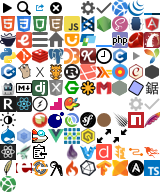
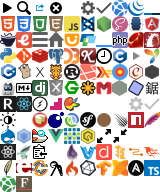
Finish GNU Fortran scraper

Changed region(s): [[0.0938, 0.9062, 0.2188, 1.0]]

diff --git a/assets/stylesheets/global/_icons.scss b/assets/stylesheets/global/_icons.scss
@@ -134,3 +134,4 @@
 ._icon-ansible:before       { background-position: -8rem -10rem; @extend %darkIconFix !optional; }
 ._icon-typescript:before    { background-position: -9rem -10rem; }
 ._icon-browser_support_tables:before { background-position: 0rem -11rem; }
+._icon-gnu_fortran:before   { background-position: -1rem -11rem; }

diff --git a/assets/stylesheets/pages/_base.scss b/assets/stylesheets/pages/_base.scss
@@ -17,7 +17,7 @@
 }
 
 ._cordova,
-._fortran,
+._gnu_fortran,
 ._grunt,
 ._haxe,
 ._influxdata,

diff --git a/lib/docs/filters/gnu_fortran/clean_html.rb b/lib/docs/filters/gnu_fortran/clean_html.rb
@@ -1,0 +1,39 @@
+module Docs
+  class GnuFortran
+    class CleanHtmlFilter < Filter
+      def call
+        heading = at_css('h1, h2, h3, h4, h5')
+        heading_level = heading.name[/h(\d)/, 1].to_i
+
+        css('h2, h3, h4, h5, h6').each do |node|
+          node.name = node.name.sub(/\d/) { |i| i.to_i - (heading_level - 1) }
+        end
+
+        css('.node > a[name]').each do |node|
+          node.parent.next_element['id'] = node['name']
+        end
+
+        css('a[name]').each do |node|
+          node['id'] = node['name']
+        end
+
+        css('samp > span:first-child:last-child').each do |node|
+          node.parent.name = 'code'
+          node.before(node.children).remove
+        end
+
+        css('pre').each do |node|
+          node.inner_html = node.inner_html.strip_heredoc.strip
+        end
+
+        css('dt > em', 'acronym', 'dfn').each do |node|
+          node.before(node.children).remove
+        end
+
+        css('.node', 'br').remove
+
+        doc
+      end
+    end
+  end
+end

diff --git a/lib/docs/scrapers/gnu_fortran.rb b/lib/docs/scrapers/gnu_fortran.rb
@@ -1,0 +1,40 @@
+module Docs
+  class GnuFortran < FileScraper
+    self.name = 'GNU Fortran'
+    self.slug = 'gnu_fortran'
+    self.type = 'gnu_fortran'
+    self.dir = '/Users/Thibaut/DevDocs/Docs/gfortran'
+    self.root_path = 'index.html'
+
+    self.links = {
+      home: 'https://gcc.gnu.org/fortran/'
+    }
+
+    html_filters.push 'gnu_fortran/clean_html', 'gnu_fortran/entries'
+
+    options[:skip_patterns] = [
+      /Funding/,
+      /Projects/,
+      /Copying/,
+      /License/,
+      /Proposed/,
+      /Contribut/,
+      /Index/
+    ]
+
+    options[:attribution] = <<-HTML
+      &copy; Free Software Foundation<br>
+      Licensed under the GNU Free Documentation License, Version 1.3.
+    HTML
+
+    version '5' do
+      self.release = '5.3.0'
+      self.base_url = "https://gcc.gnu.org/onlinedocs/gcc-#{release}/gfortran/"
+    end
+
+    version '4' do
+      self.release = '4.9.3'
+      self.base_url = "https://gcc.gnu.org/onlinedocs/gcc-#{release}/gfortran/"
+    end
+  end
+end

diff --git a/lib/docs/filters/gnu_fortran/entries.rb b/lib/docs/filters/gnu_fortran/entries.rb
@@ -1,0 +1,41 @@
+module Docs
+  class GnuFortran
+    class EntriesFilter < Docs::EntriesFilter
+      TYPE_BY_CHAPTER = { }
+
+      def initialize(*)
+        super
+        detect_chapters if root_page?
+      end
+
+      def get_name
+        at_css('h1').content.split(' ').drop(1).join(' ').split('—').first
+      end
+
+      def get_type
+        "#{chapter_number}. #{TYPE_BY_CHAPTER[chapter_number]}"
+      end
+
+      def include_default_entry?
+        !at_css('ul.menu')
+      end
+
+      private
+
+      def detect_chapters
+        css('.contents > ul > li > a').each do |node|
+          index = node.content.strip.to_i
+          next unless index > 0
+          name = node.content.split(' ').drop(1).join(' ')
+          name.remove! 'GNU Fortran '
+          name.remove! %r{:.*}
+          TYPE_BY_CHAPTER[index] = name # YOLO
+        end
+      end
+
+      def chapter_number
+        at_css('h1').content.to_i
+      end
+    end
+  end
+end
